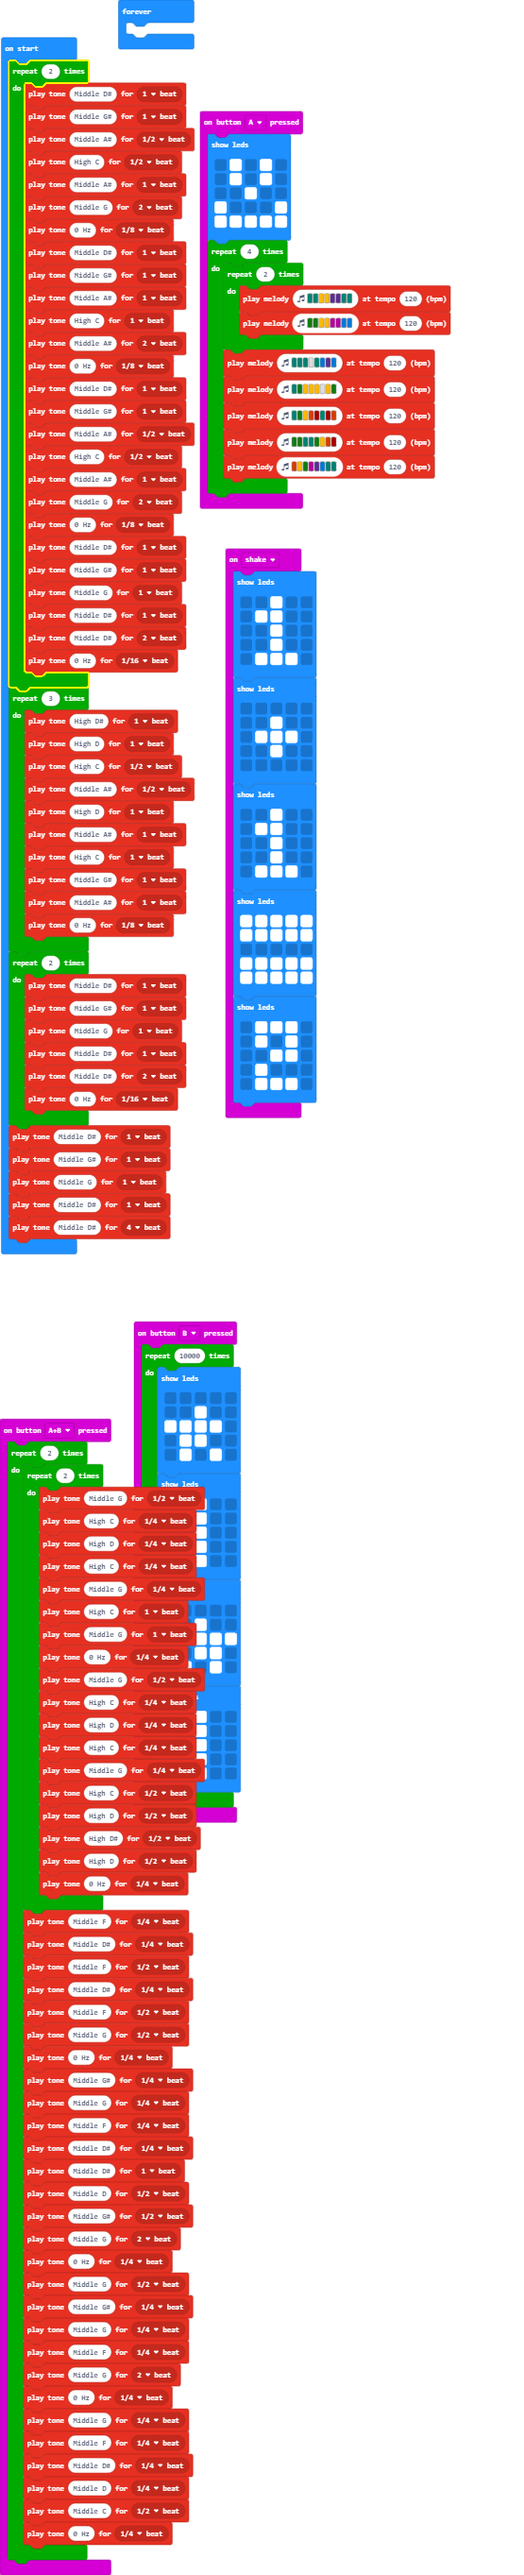
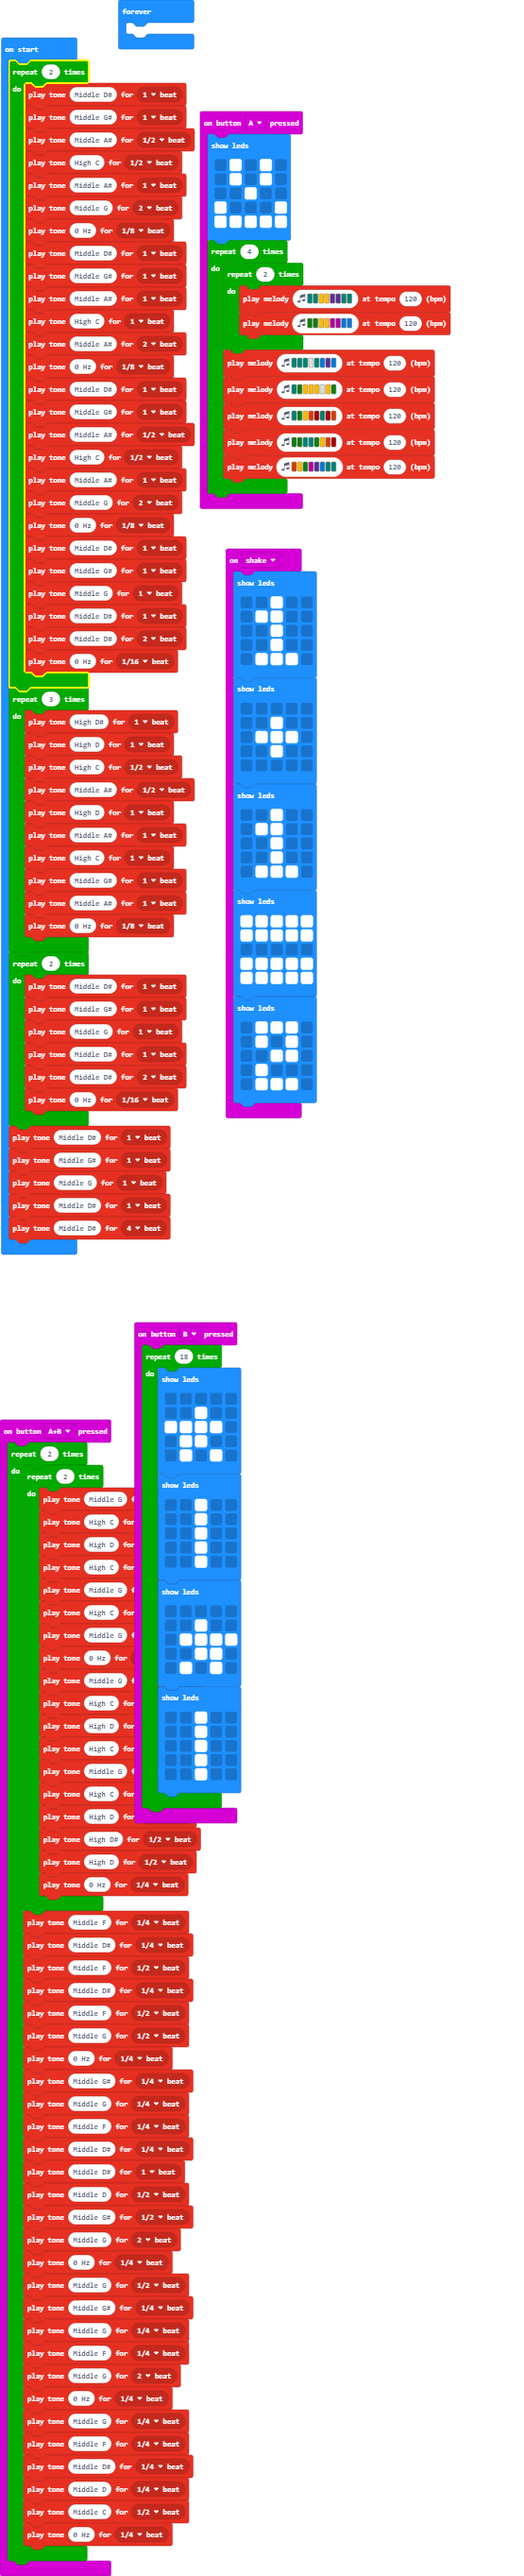
Update main.blocks, main.ts

diff --git a/main.ts b/main.ts
@@ -71,7 +71,7 @@ input.onButtonPressed(Button.AB, function () {
     }
 })
 input.onButtonPressed(Button.B, function () {
-    for (let index = 0; index < 10000; index++) {
+    for (let index = 0; index < 18; index++) {
         basic.showLeds(`
             . . . . .
             . . # . .
